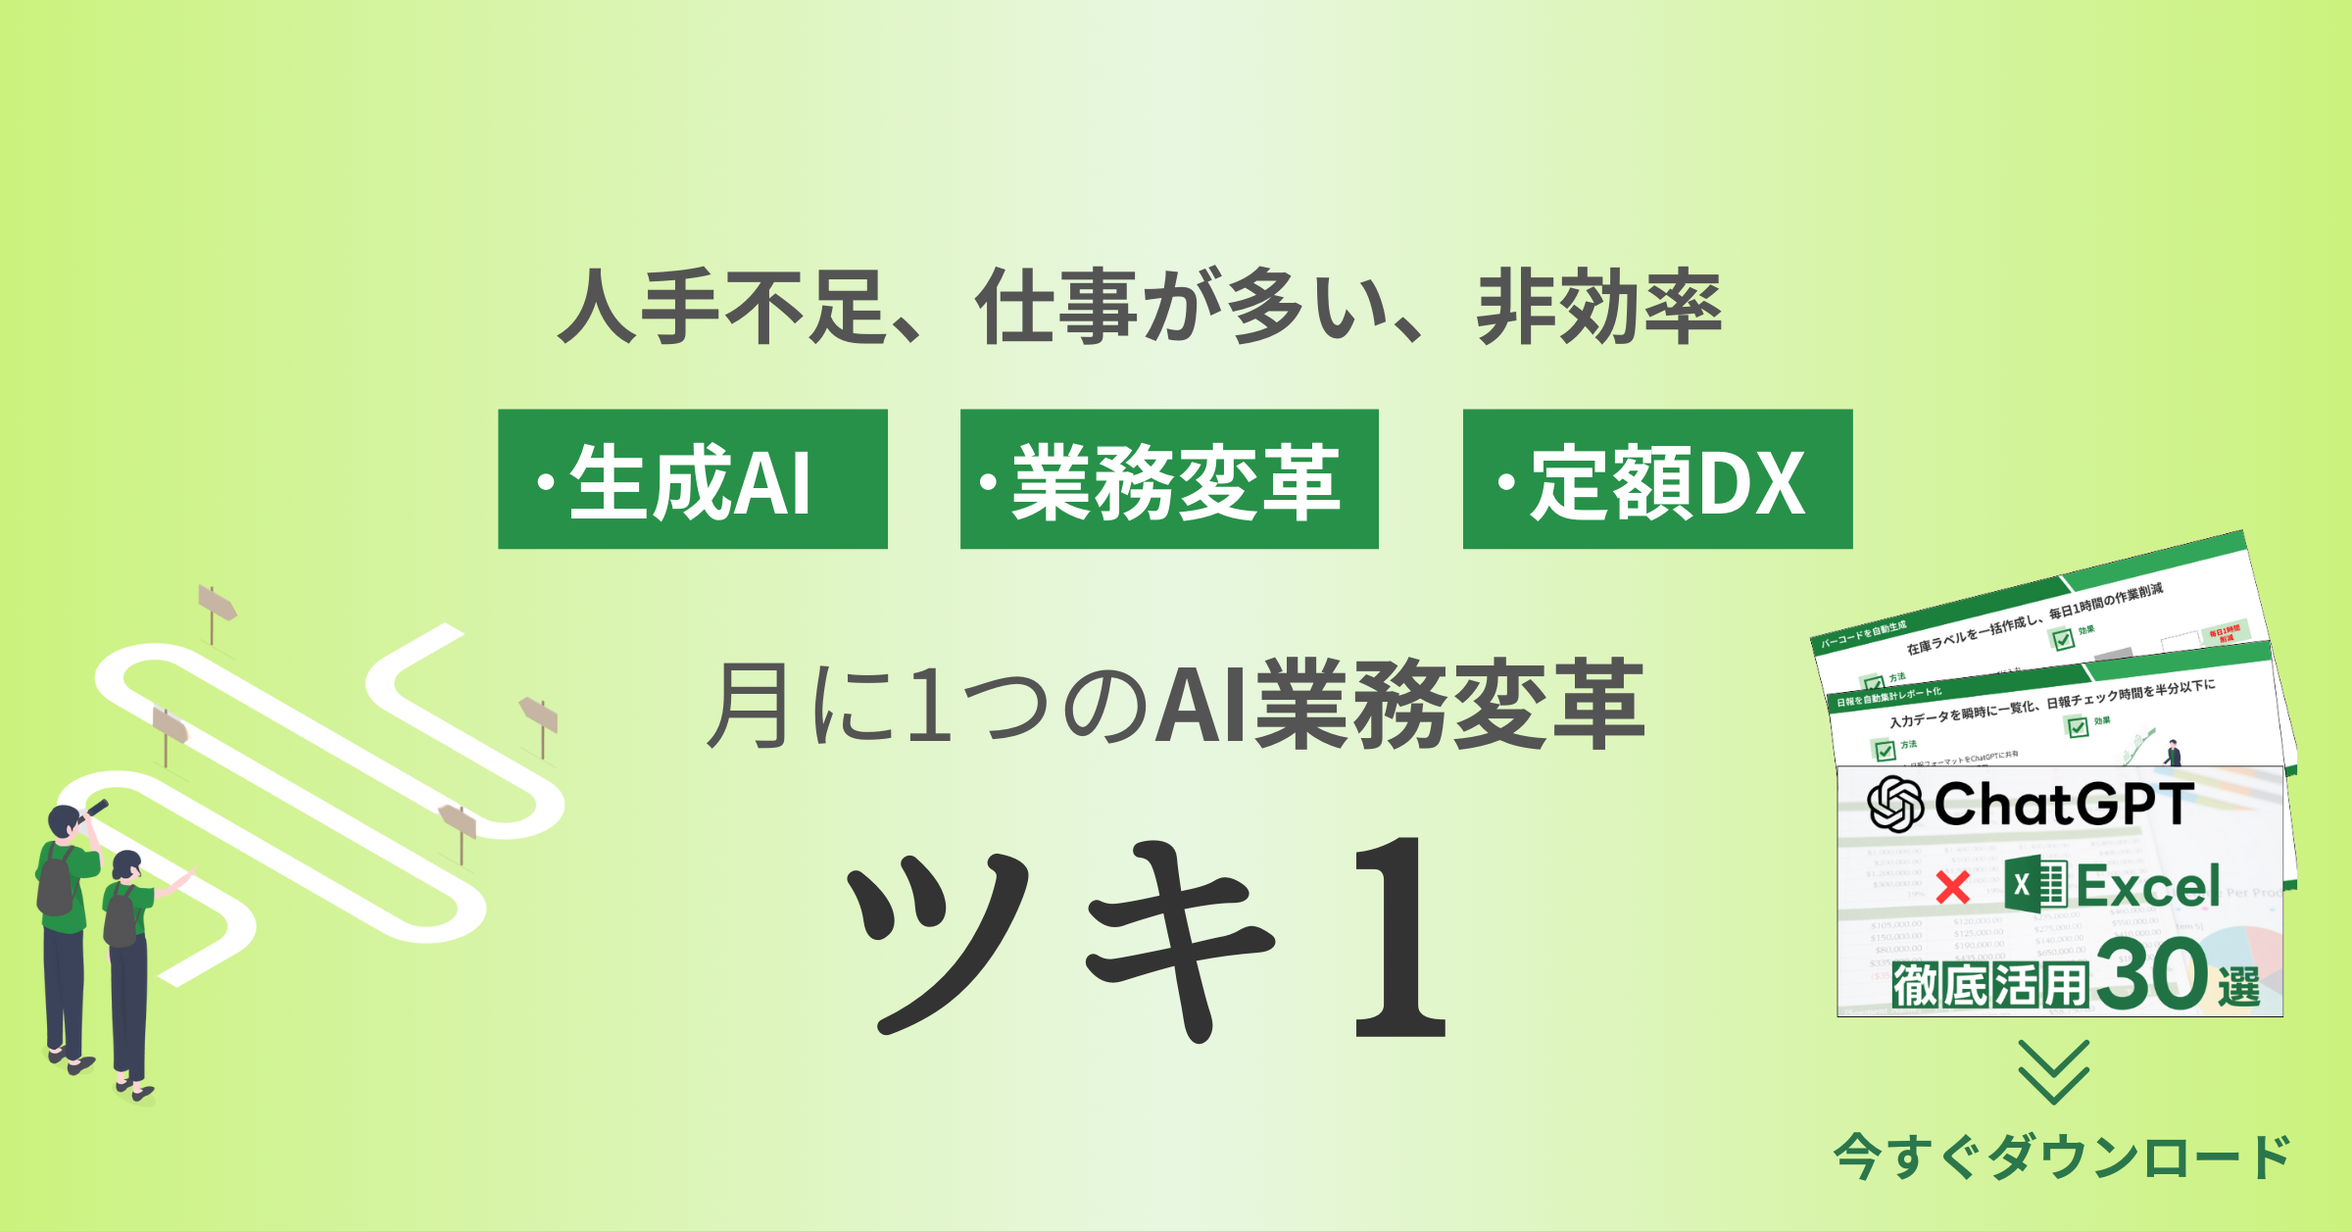
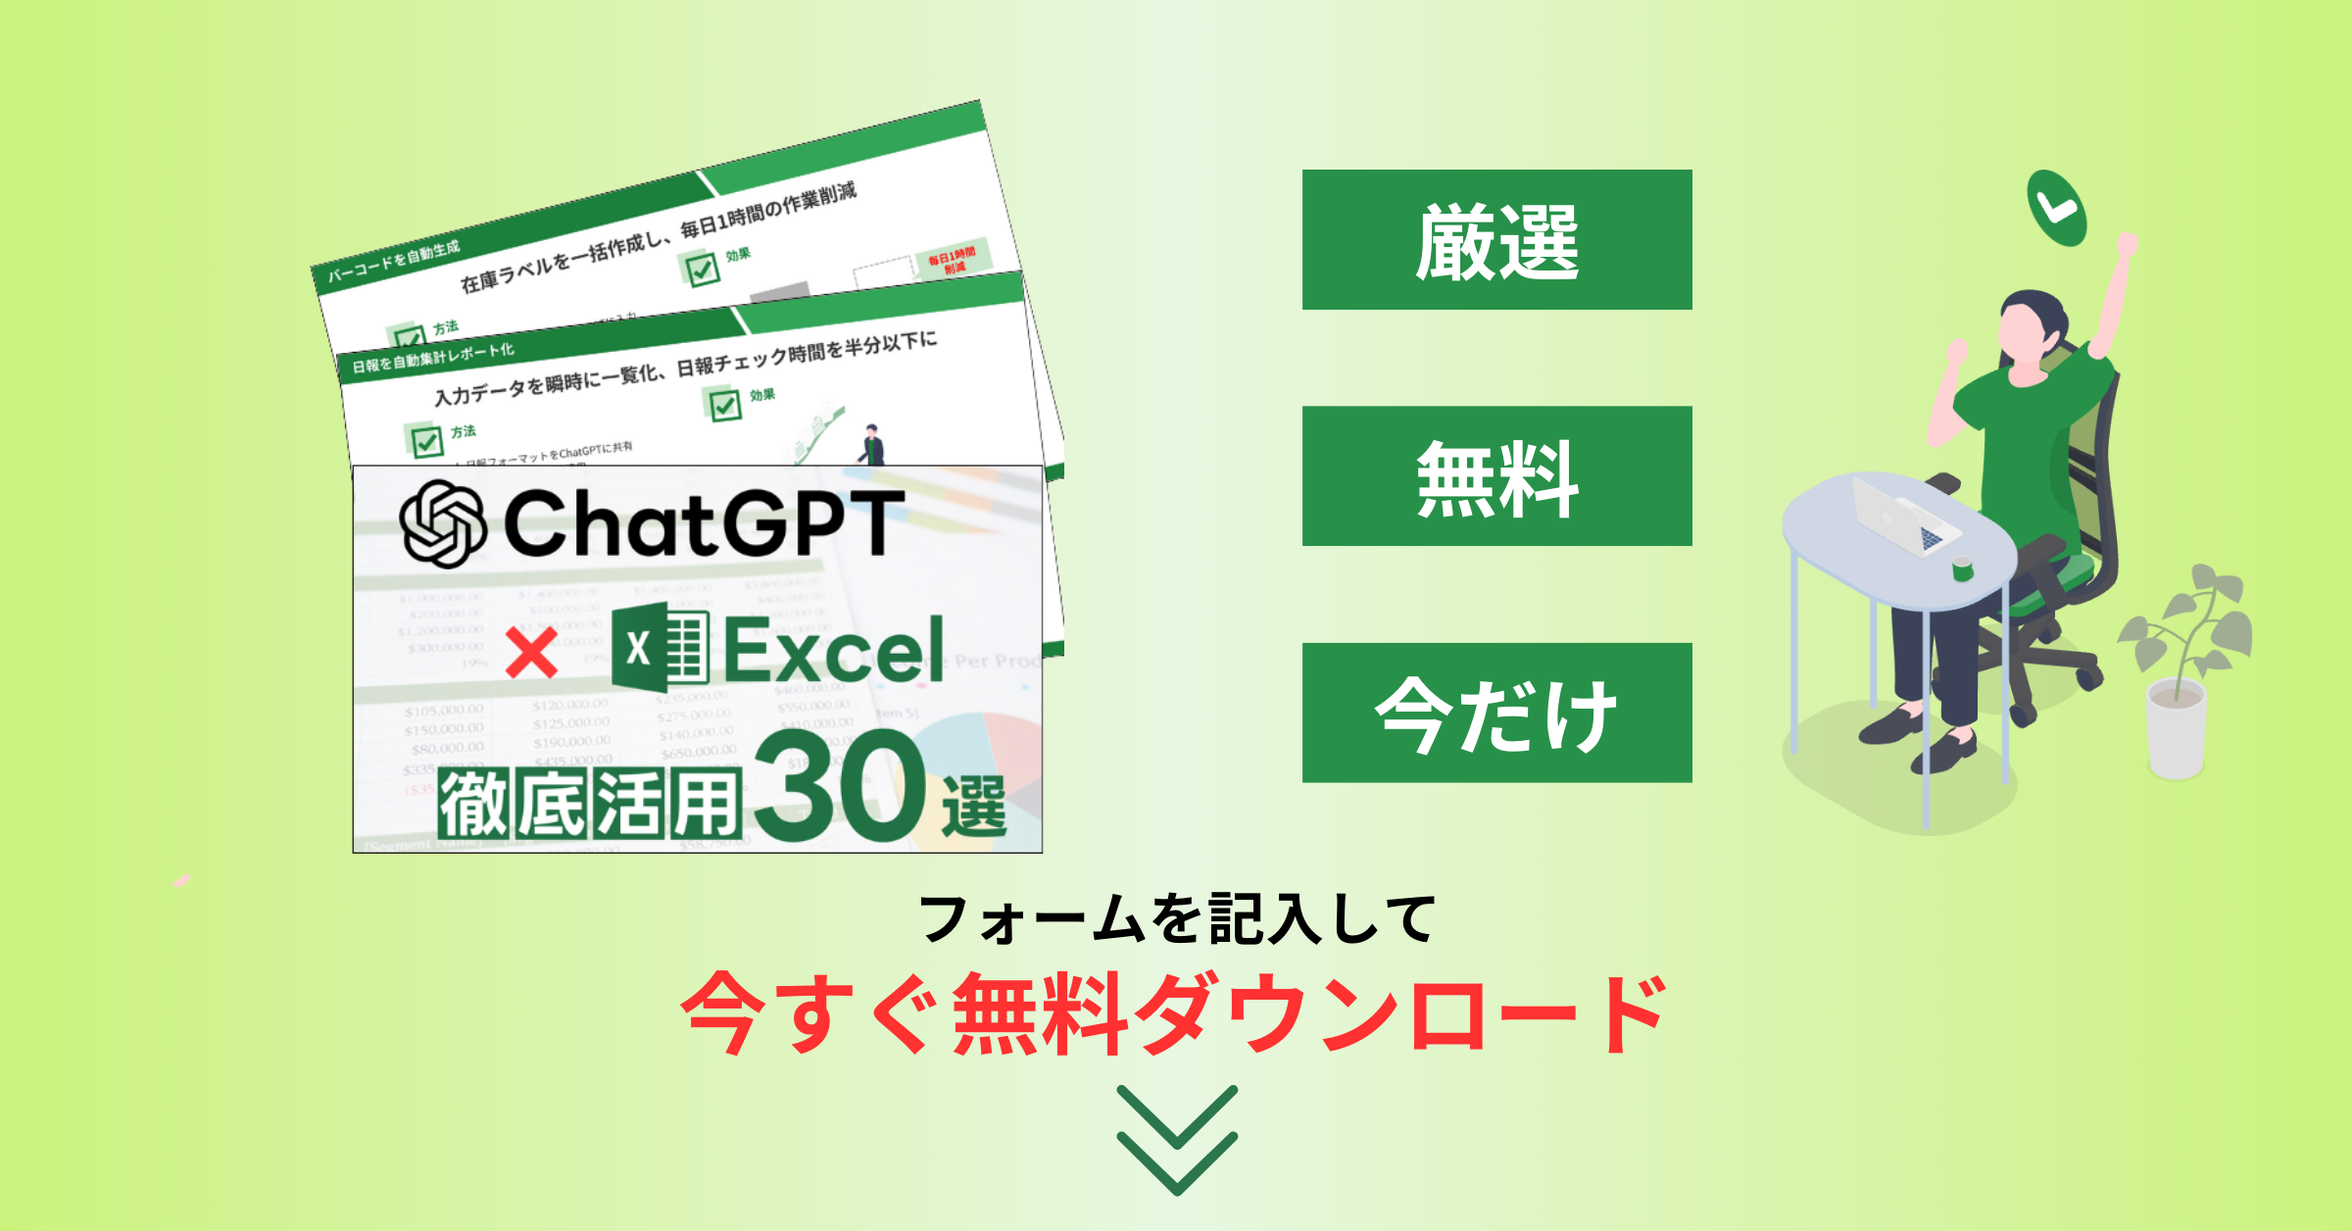
chatgpt-excel-v2

diff --git a/src/components/ValueFeaturesPositive.tsx b/src/components/ValueFeaturesPositive.tsx
@@ -4,20 +4,13 @@ const ValueFeatures = () => {
       <div className="max-w-[1280px] mx-auto px-4 sm:px-6">
         <div className="bg-green-700 rounded-2xl p-6 sm:p-8 md:p-12">
           <h2 className="text-xl sm:text-2xl font-bold text-white text-left mb-4">
-            ツキ１でAI活用して業務変革をした場合
+            WashoiでAI活用して業務変革をした場合
           </h2>
-          <p className="text-white text-sm sm:text-[15px] mb-8 sm:mb-12">
-            「嬉しい、楽しい、安心」が生まれます。<br />
-            効率化されるのはもちろん、感情への効果も上乗せされ、会社全体が活性化します。<br />
-          </p>
           <div className="grid grid-cols-1 md:grid-cols-3 gap-6 sm:gap-8">
             <div className="bg-white p-6 sm:p-8 rounded-lg">
               <h3 className="text-lg sm:text-xl font-bold text-[#0E3A51] mb-4">
                 すぐに効果が出るから嬉しい
               </h3>
-              <p className="text-sm text-[#0E3A51] leading-relaxed">
-                「あれ、今まで何時間もかかっていた作業が、たった数分で!?」と目を疑うレベルのスピード感に、チーム全体が高揚感を味わう。
-              </p>
               <img
                 src="/images/fast_effect.svg"
                 alt="すぐに効果出る"
@@ -28,9 +21,6 @@ const ValueFeatures = () => {
               <h3 className="text-lg sm:text-xl font-bold text-[#0E3A51] mb-4">
                 1ヶ月で完結してどんどん進むから楽しい
               </h3>
-              <p className="text-sm text-[#0E3A51] leading-relaxed">
-                「私たちはAIを使いこなしている先進企業だ」という自信が生まれる。自信が顧客にも伝わる。
-              </p>
               <img
                 src="/images/monthly_fun.svg"
                 alt="どんどん進む"
@@ -41,9 +31,6 @@ const ValueFeatures = () => {
               <h3 className="text-lg sm:text-xl font-bold text-[#0E3A51] mb-4">
                 コストパフォーマンスが高く、安心して続けられる
               </h3>
-              <p className="text-sm text-[#0E3A51] leading-relaxed">
-                効果が出るか分からない、内容が分からないシステム開発に高額な費用を払うリスクがなくなる。
-              </p>
               <img
                 src="/images/cost_performance.svg"
                 alt="コストパフォーマンス"

diff --git a/src/components/AboutService.tsx b/src/components/AboutService.tsx
@@ -8,7 +8,7 @@ const ServiceIntro = () => {
       <div className="max-w-[1280px] mx-auto px-4 sm:px-6 text-center">
         <div className="flex flex-col sm:flex-row items-center justify-center gap-8 mb-12">
           <div className="text-center flex flex-col items-center justify-center">
-            <p className="text-xl sm:text-3xl text-[#0E3A51] font-bold mb-6">ChatGPT×Excelの活用法をプレゼント</p>
+            <p className="text-xl sm:text-3xl text-[#0E3A51] font-bold mb-6">最高のAIツール&ChatGPTの使い方をお教えします！</p>
             <button 
               onClick={() => navigateWithUtm("/download")}
               className="bg-[#FF9900] text-white px-10 py-4 rounded-full text-2xl font-bold hover:bg-[#FF6600] hover:scale-120 transition-all duration-3000 animate-scale-bounce shadow-lg hover:shadow-xl"
@@ -32,44 +32,10 @@ const ServiceIntro = () => {
   );
 };
 
-const ValueProposition = () => {
-  return (
-    <div className="bg-white py-12 sm:py-16 md:py-0">
-      <div className="max-w-[1280px] mx-auto px-4 sm:px-6">
-        <div className="flex md:flex-row items-start md:items-center gap-8 md:gap-12 mb-8 md:mb-16">
-          <div className="w-full space-y-4 sm:space-y-6">
-            <h2 className="text-3xl sm:text-4xl md:text-[40px] text-[#0E3A51] leading-tight font-bold">
-              ツキ１とは？
-            </h2>
-            <p className="text-base sm:text-lg text-[#0E3A51] leading-relaxed">
-              「ツキ１」は、月に1つ業務変革を起こす生成AI時代の新しいサービスです。<br />
-              毎月1つのテーマに絞り、たった30日で具体的な成果を生み出します。<br />
-              生成AIの特性を活かし、従来DXの "分からない、終わらない、安くない" を解決します。
-            </p>
-          </div>
-        </div>
-        <div className="grid grid-cols-1 md:grid-cols-2 gap-6 sm:gap-8">
-          <img
-            src="/images/monthly_growth.png"
-            alt="AI Transformation value proposition"
-            className="w-full h-auto"
-          />
-          <img
-            src="/images/compare.png"
-            alt="AI Transformation value proposition"
-            className="w-full h-auto"
-          />
-        </div>
-      </div>
-    </div>
-  );
-};
-
 const AboutService = () => {
   return (
     <>
       <ServiceIntro />
-      <ValueProposition />
     </>
   );
 };

diff --git a/src/components/ValueFeaturesNegative.tsx b/src/components/ValueFeaturesNegative.tsx
@@ -6,17 +6,11 @@ const ValueFeaturesNegative = () => {
           <h2 className="text-xl sm:text-2xl font-bold text-white text-left mb-4">
             AI活用をしなかった場合
           </h2>
-          <p className="text-white text-sm sm:text-[15px] mb-8 sm:mb-12">
-            これらのシナリオは決して絵空事ではなく、「やらないリスク」は想像以上に大きいことを直視しなければいけません。
-          </p>
           <div className="grid grid-cols-1 md:grid-cols-3 gap-6 sm:gap-8">
             <div className="bg-white p-6 sm:p-8 rounded-lg">
               <h3 className="text-lg sm:text-xl font-bold text-[#0E3A51] mb-4">
                 顧客から見放される
               </h3>
-              <p className="text-sm text-[#0E3A51] leading-relaxed">
-                競合がAIを駆使して素早く顧客ニーズに応え始めると、旧来のやり方では提案やサービスのスピード感で圧倒的に負けてしまう。
-              </p>
               <img
                 src="/images/abandoned_by_customer.svg"
                 alt="顧客から見放される"
@@ -27,9 +21,6 @@ const ValueFeaturesNegative = () => {
               <h3 className="text-lg sm:text-xl font-bold text-[#0E3A51] mb-4">
                 優秀な人材が辞めていく
               </h3>
-              <p className="text-sm text-[#0E3A51] leading-relaxed">
-                AIを活用して新しい取り組みができる会社は山ほどあるため、「ここでは未来を作れない」と見限られてしまう。
-              </p>
               <img
                 src="/images/outflow.svg"
                 alt="優秀な人材が辞めていく"
@@ -40,9 +31,6 @@ const ValueFeaturesNegative = () => {
               <h3 className="text-lg sm:text-xl font-bold text-[#0E3A51] mb-4">
                 「時代遅れ」認定されてしまう
               </h3>
-              <p className="text-sm text-[#0E3A51] leading-relaxed">
-                どれだけ良い伝統や実績があっても、「あの企業は変化できない」と見られてしまい、新しいチャンスを逃してしまう。
-              </p>
               <img
                 src="/images/outdated.png"
                 alt="時代遅れ認知されてしまう"

diff --git a/src/components/SupportApproachSection.tsx b/src/components/SupportApproachSection.tsx
@@ -3,7 +3,7 @@ const SupportApproachSection = () => {
     <div className="bg-[#EDF2F7] py-12 sm:py-16 md:py-[120px]">
       <div className="max-w-[1280px] mx-auto px-4 sm:px-6">
         <h2 className="text-[24px] font-bold text-navy text-left mb-8 sm:mb-12">
-          ツキ１の支援イメージ
+          Washoiの支援イメージ
         </h2>
         <div className="grid grid-cols-1 lg:grid-cols-2 gap-6 sm:gap-8">
           {/* 戦略と実践の融合カード */}
@@ -11,9 +11,6 @@ const SupportApproachSection = () => {
             <h3 className="text-xl sm:text-2xl font-bold text-navy mb-4">
               毎月の業務変革テーマの計画を作成する
             </h3>
-            <p className="text-sm sm:text-[15px] text-navy mb-6">
-              課題の洗い出し、費用対効果が高いものをリストアップ、月毎にテーマを決めて課題を解決します。
-            </p>
             <div className="border mt-auto">
               <img
                 src="/images/plan.png"
@@ -28,9 +25,6 @@ const SupportApproachSection = () => {
             <h3 className="text-xl sm:text-2xl font-bold text-navy mb-4">
               テーマごとにAI活用の研修、ツール導入、システム開発をする
             </h3>
-            <p className="text-sm sm:text-[15px] text-navy mb-6">
-              課題テーマに最適な方法を選択します。<br />研修はお客様の中にノウハウが蓄積されるので、一番喜ばれています。
-            </p>
             <div className="border mt-auto">
               <img
                 src="/images/solutions.png"

diff --git a/src/components/ContactSection.tsx b/src/components/ContactSection.tsx
@@ -10,9 +10,9 @@ const ContactSection = () => {
       {/* Left section - Document Request */}
       <div className="w-full md:w-1/2 bg-blue-media py-12 sm:py-16 px-4 sm:px-8">
         <div className="max-w-md mx-auto space-y-4 sm:space-y-6">
-          <h2 className="text-xl sm:text-2xl font-bold text-white text-center">AI活用法ダウンロード</h2>
+          <h2 className="text-xl sm:text-2xl font-bold text-white text-center">厳選資料集</h2>
           <p className="text-sm sm:text-[15px] font-normal text-white">
-          お客様の業務を今日から変革するAI活用法です。<br />ツキ１から得られる効果を具体的にイメージしていただけます。
+            今だけ無料の資料集をプレゼント。フォームを記入して手に入れてください。
           </p>
           <Button 
             variant="outline" 
@@ -34,7 +34,7 @@ const ContactSection = () => {
         <div className="max-w-md mx-auto space-y-4 sm:space-y-6">
           <h2 className="text-xl sm:text-2xl font-bold text-white text-center">ご相談・お問い合わせ</h2>
           <p className="text-sm sm:text-[15px] font-normal text-white">
-            ツキ１を通してお客様が得られる効果をもっと知りたい方はお気軽にお問い合わせください。
+            サービスについてもっと知りたい方はお気軽にお問い合わせください。
           </p>
           <Button 
             variant="outline" 

diff --git a/src/components/DownloadBanner.tsx b/src/components/DownloadBanner.tsx
@@ -5,9 +5,9 @@ const DownloadBanner = () => {
   const navigateWithUtm = useUtmNavigation();
 
   return (
-    <div className="flex flex-col sm:flex-row justify-center items-center gap-4 sm:gap-8 px-4">
+    <div className="flex flex-col sm:flex-row justify-center items-center px-4">
       <div className="text-center">
-        <p className="text-xl sm:text-3xl text-[#0E3A51] font-bold mb-6">ChatGPT×Excelの活用法をプレゼント</p>
+        <p className="text-xl sm:text-3xl text-[#0E3A51] font-bold mb-3">最高のAIツール&ChatGPTの使い方をお教えします！</p>
         <Button
           size="lg"
           className="bg-[#FF9900] text-white px-10 py-8 rounded-full text-2xl font-bold hover:bg-[#FF6600] hover:scale-120 transition-all duration-3000 animate-scale-bounce shadow-lg hover:shadow-xl"
@@ -19,7 +19,7 @@ const DownloadBanner = () => {
       <img 
         src="/images/present_banner.png" 
         alt="プレゼントバナー" 
-        className="w-[600px] h-[400px] object-contain -ml-4 relative z-10"
+        className="w-[500px] h-[300px] object-contain -ml-2 relative z-10"
       />
     </div>
   );

diff --git a/src/components/DownloadForm.tsx b/src/components/DownloadForm.tsx
@@ -10,6 +10,7 @@ import { Button } from "@/components/ui/button";
 import { useNavigate } from "react-router-dom";
 import { useUtmNavigation } from "@/hooks/use-utm-navigation";
 import { Checkbox } from "@/components/ui/checkbox";
+import { ScrollGuide } from "@/components/ScrollGuide";
 import { toast } from "sonner";
 import downloadBanner from "/images/download_banner.png";
 import presentPdf from "/present.pdf";
@@ -119,7 +120,11 @@ const DownloadForm = () => {
             </div>
           </div>
 
-          <div className="bg-white rounded-lg p-3 md:p-12 mt-4 md:mt-8">
+          <div className="bg-white flex justify-center my-0">
+            <ScrollGuide />
+          </div>
+
+          <div className="bg-white rounded-lg p-3 md:p-12">
             <Form {...form}>
               <form onSubmit={form.handleSubmit(onSubmit)} className="space-y-8">
                 <FormField

diff --git a/src/pages/Index.tsx b/src/pages/Index.tsx
@@ -2,7 +2,6 @@ import { useEffect } from "react";
 import Navbar from "@/components/Navbar";
 import Hero from "@/components/Hero";
 import AboutService from "@/components/AboutService";
-import ValueProposition from "@/components/ValueProposition";
 import ValueFeaturesNegative from "@/components/ValueFeaturesNegative";
 import ValueFeaturesPositive from "@/components/ValueFeaturesPositive";
 import AIMediaSection from "@/components/AIMediaSection";
@@ -38,13 +37,12 @@ const Index = () => {
       <Navbar />
       <Hero />
       <AboutService />
-      <ValueProposition />
       <AIMediaSection />
       <div className="mt-16">
         <DownloadBanner />
       </div>
       <ValueFeaturesNegative />
-      <div className="flex justify-center">
+      <div className="flex justify-center mt-8">
         <ScrollGuide />
       </div>
       <ValueFeaturesPositive />

diff --git a/index.html b/index.html
@@ -3,10 +3,10 @@
   <head>
     <meta charset="UTF-8" />
     <meta name="viewport" content="width=device-width, initial-scale=1.0" />
-    <title>ツキ１</title>
+    <title>Washoi</title>
     <meta name="description" content="ツキイチのAI業務変革で、毎月会社を進化させる" />
     <meta name="author" content="Washoi" />
-    <meta property="og:title" content="ツキ１" />
+    <meta property="og:title" content="Washoi" />
     <meta property="og:description" content="ツキイチのAI業務変革で、毎月会社を進化させる" />
     <meta property="og:type" content="website" />
     <meta property="og:url" content="https://tsuki1.washoi.co.jp" />

diff --git a/src/components/Footer.tsx b/src/components/Footer.tsx
@@ -10,8 +10,8 @@ const Footer = () => {
         {/* Logo and Address */}
         <div className="mb-8 sm:mb-12">
           <div className="mb-6 sm:mb-8">
-            <h2 className="text-3xl sm:text-[40px] font-bold text-navy mb-2">ツキ１</h2>
-            <p className="text-navy">ツキ１のAI業務変革で、毎月会社を進化させる</p>
+            <h2 className="text-3xl sm:text-[40px] font-bold text-navy mb-2">Washoi</h2>
+            <p className="text-navy">WashoiのAI業務変革で、毎月会社を進化させる</p>
           </div>
           <div className="text-sm sm:text-[15px] space-y-1">
             <p>株式会社Washoi</p>

diff --git a/src/components/SupportMembersSection.tsx b/src/components/SupportMembersSection.tsx
@@ -7,9 +7,6 @@ const SupportMembersSection = () => {
           <div className="w-full lg:w-1/3">
             <div className="space-y-4 sm:space-y-6">
               <h2 className="text-xl sm:text-2xl md:text-[24px] font-bold text-navy">支援メンバーのご紹介</h2>
-              <p className="text-sm sm:text-[15px] text-navy">
-                メンバーは生成AIを活用した業務変革の専門家で構成されています。<br />全員が複数の領域に専門性を持ち、お客様のことを深く理解できる最高のパートナーです。
-              </p>
             </div>
           </div>
 

diff --git a/src/components/Navbar.tsx b/src/components/Navbar.tsx
@@ -12,8 +12,8 @@ const Navbar = () => {
     }`}>
       <div className="max-w-screen-xl mx-auto px-6 flex justify-between items-center">
         <div className="flex items-center">
-          <button onClick={() => navigateWithUtm("/")} className="text-black font-bold text-3xl" style={{ fontFamily: "'Zen Old Mincho', serif" }}>
-            ツキ１
+          <button onClick={() => navigateWithUtm("/")} className="text-[#279149] font-bold text-xl" style={{ fontFamily: "'Noto Sans JP', sans-serif" }}>
+            Washoi
           </button>
         </div>
         
